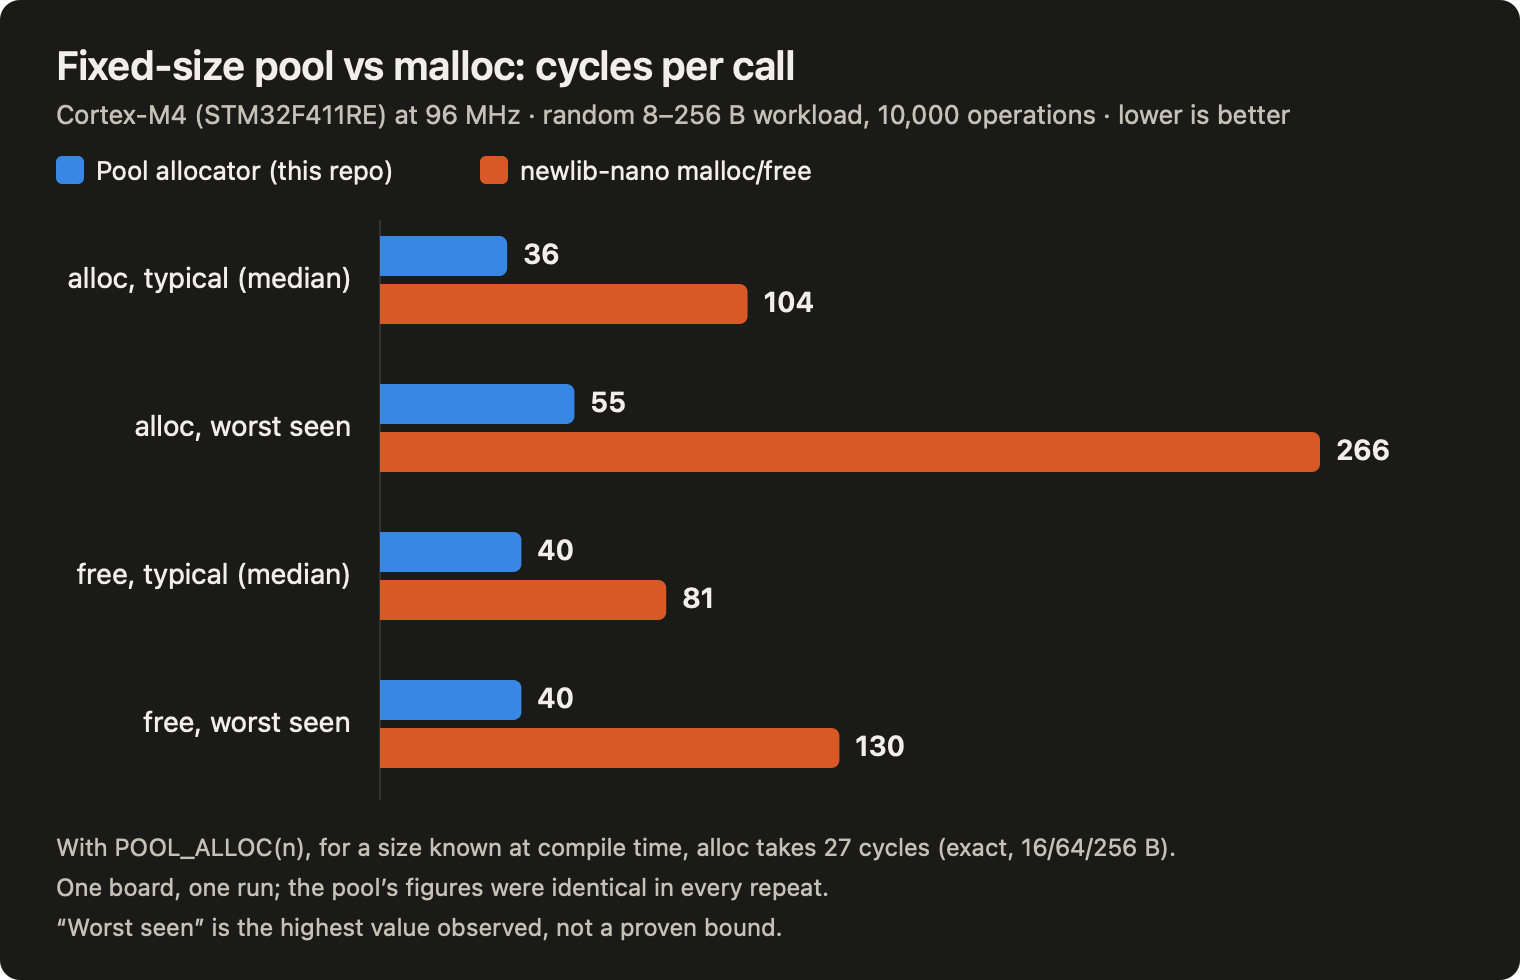
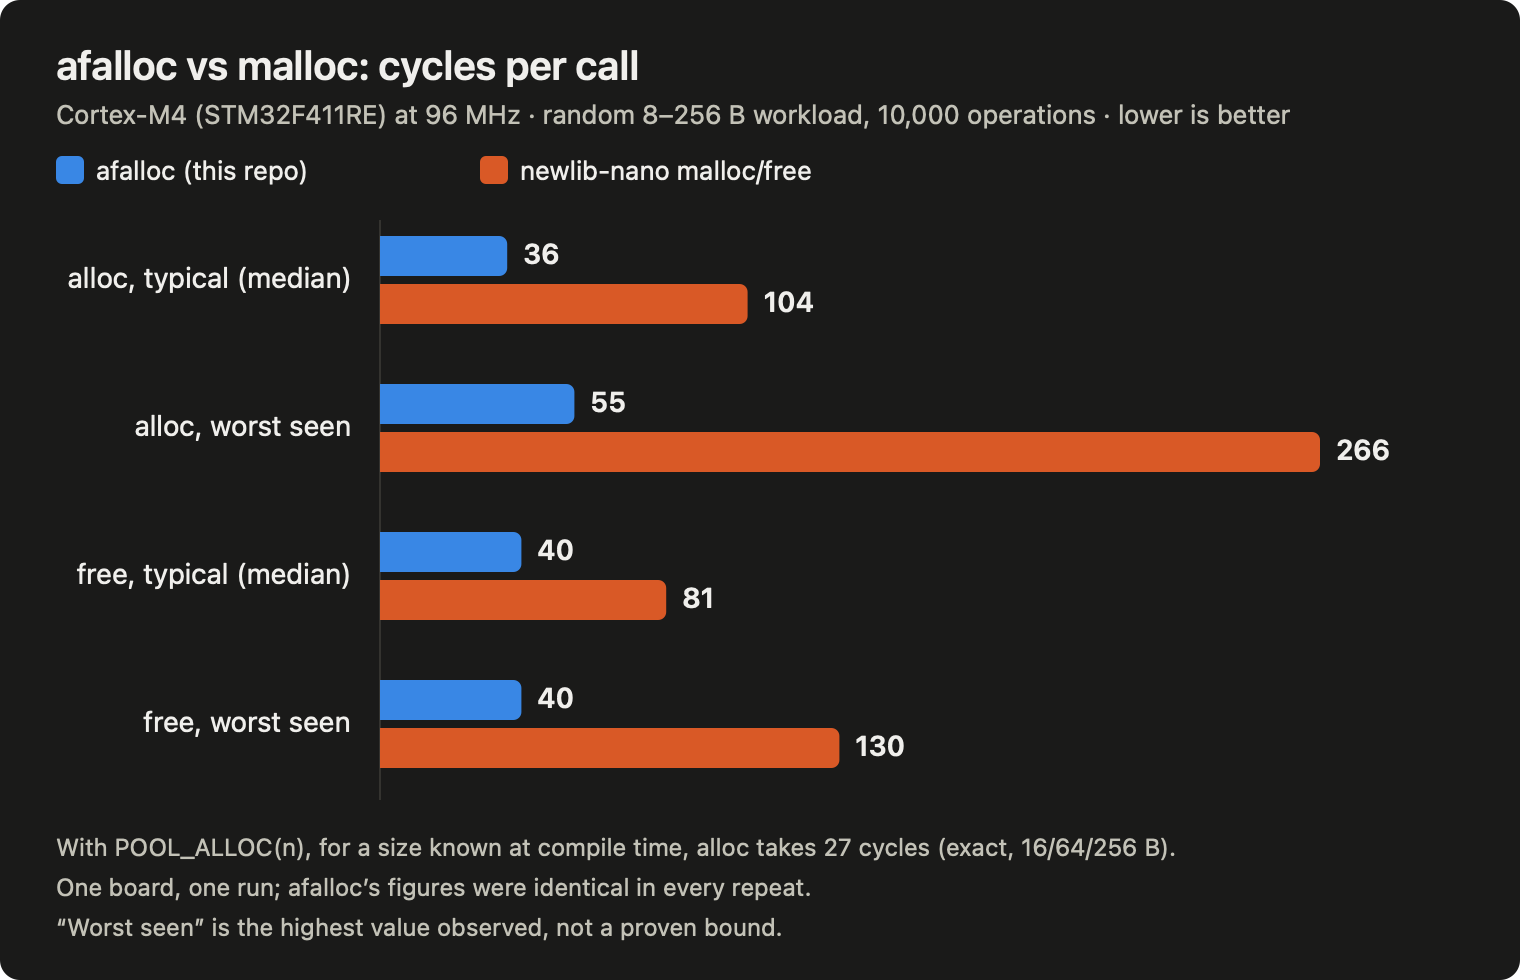
docs: name the chart's series afalloc instead of pool, regenerate the PNGs

Changed region(s): [[0.0309, 0.0306, 0.5257, 0.0918], [0.1855, 0.8878, 0.5566, 0.9184], [0.0618, 0.1531, 0.2474, 0.1837]]

diff --git a/README.md b/README.md
@@ -4,7 +4,7 @@ Memory allocators written from scratch in C, to understand what actually happens
 `malloc` and `free`. The most developed part is **[`embedded_pool/`](embedded_pool/)**: a
 fixed-size block pool allocator for microcontrollers, measured on a real Cortex-M4 board.
 
-![Pool allocator vs newlib-nano malloc, cycles per call on a Cortex-M4](docs/results.svg)
+![afalloc vs newlib-nano malloc, cycles per call on a Cortex-M4](docs/results.svg)
 
 | On an STM32F411RE at 96 MHz (cycles per call) | afalloc | newlib-nano `malloc` |
 |---|---|---|
